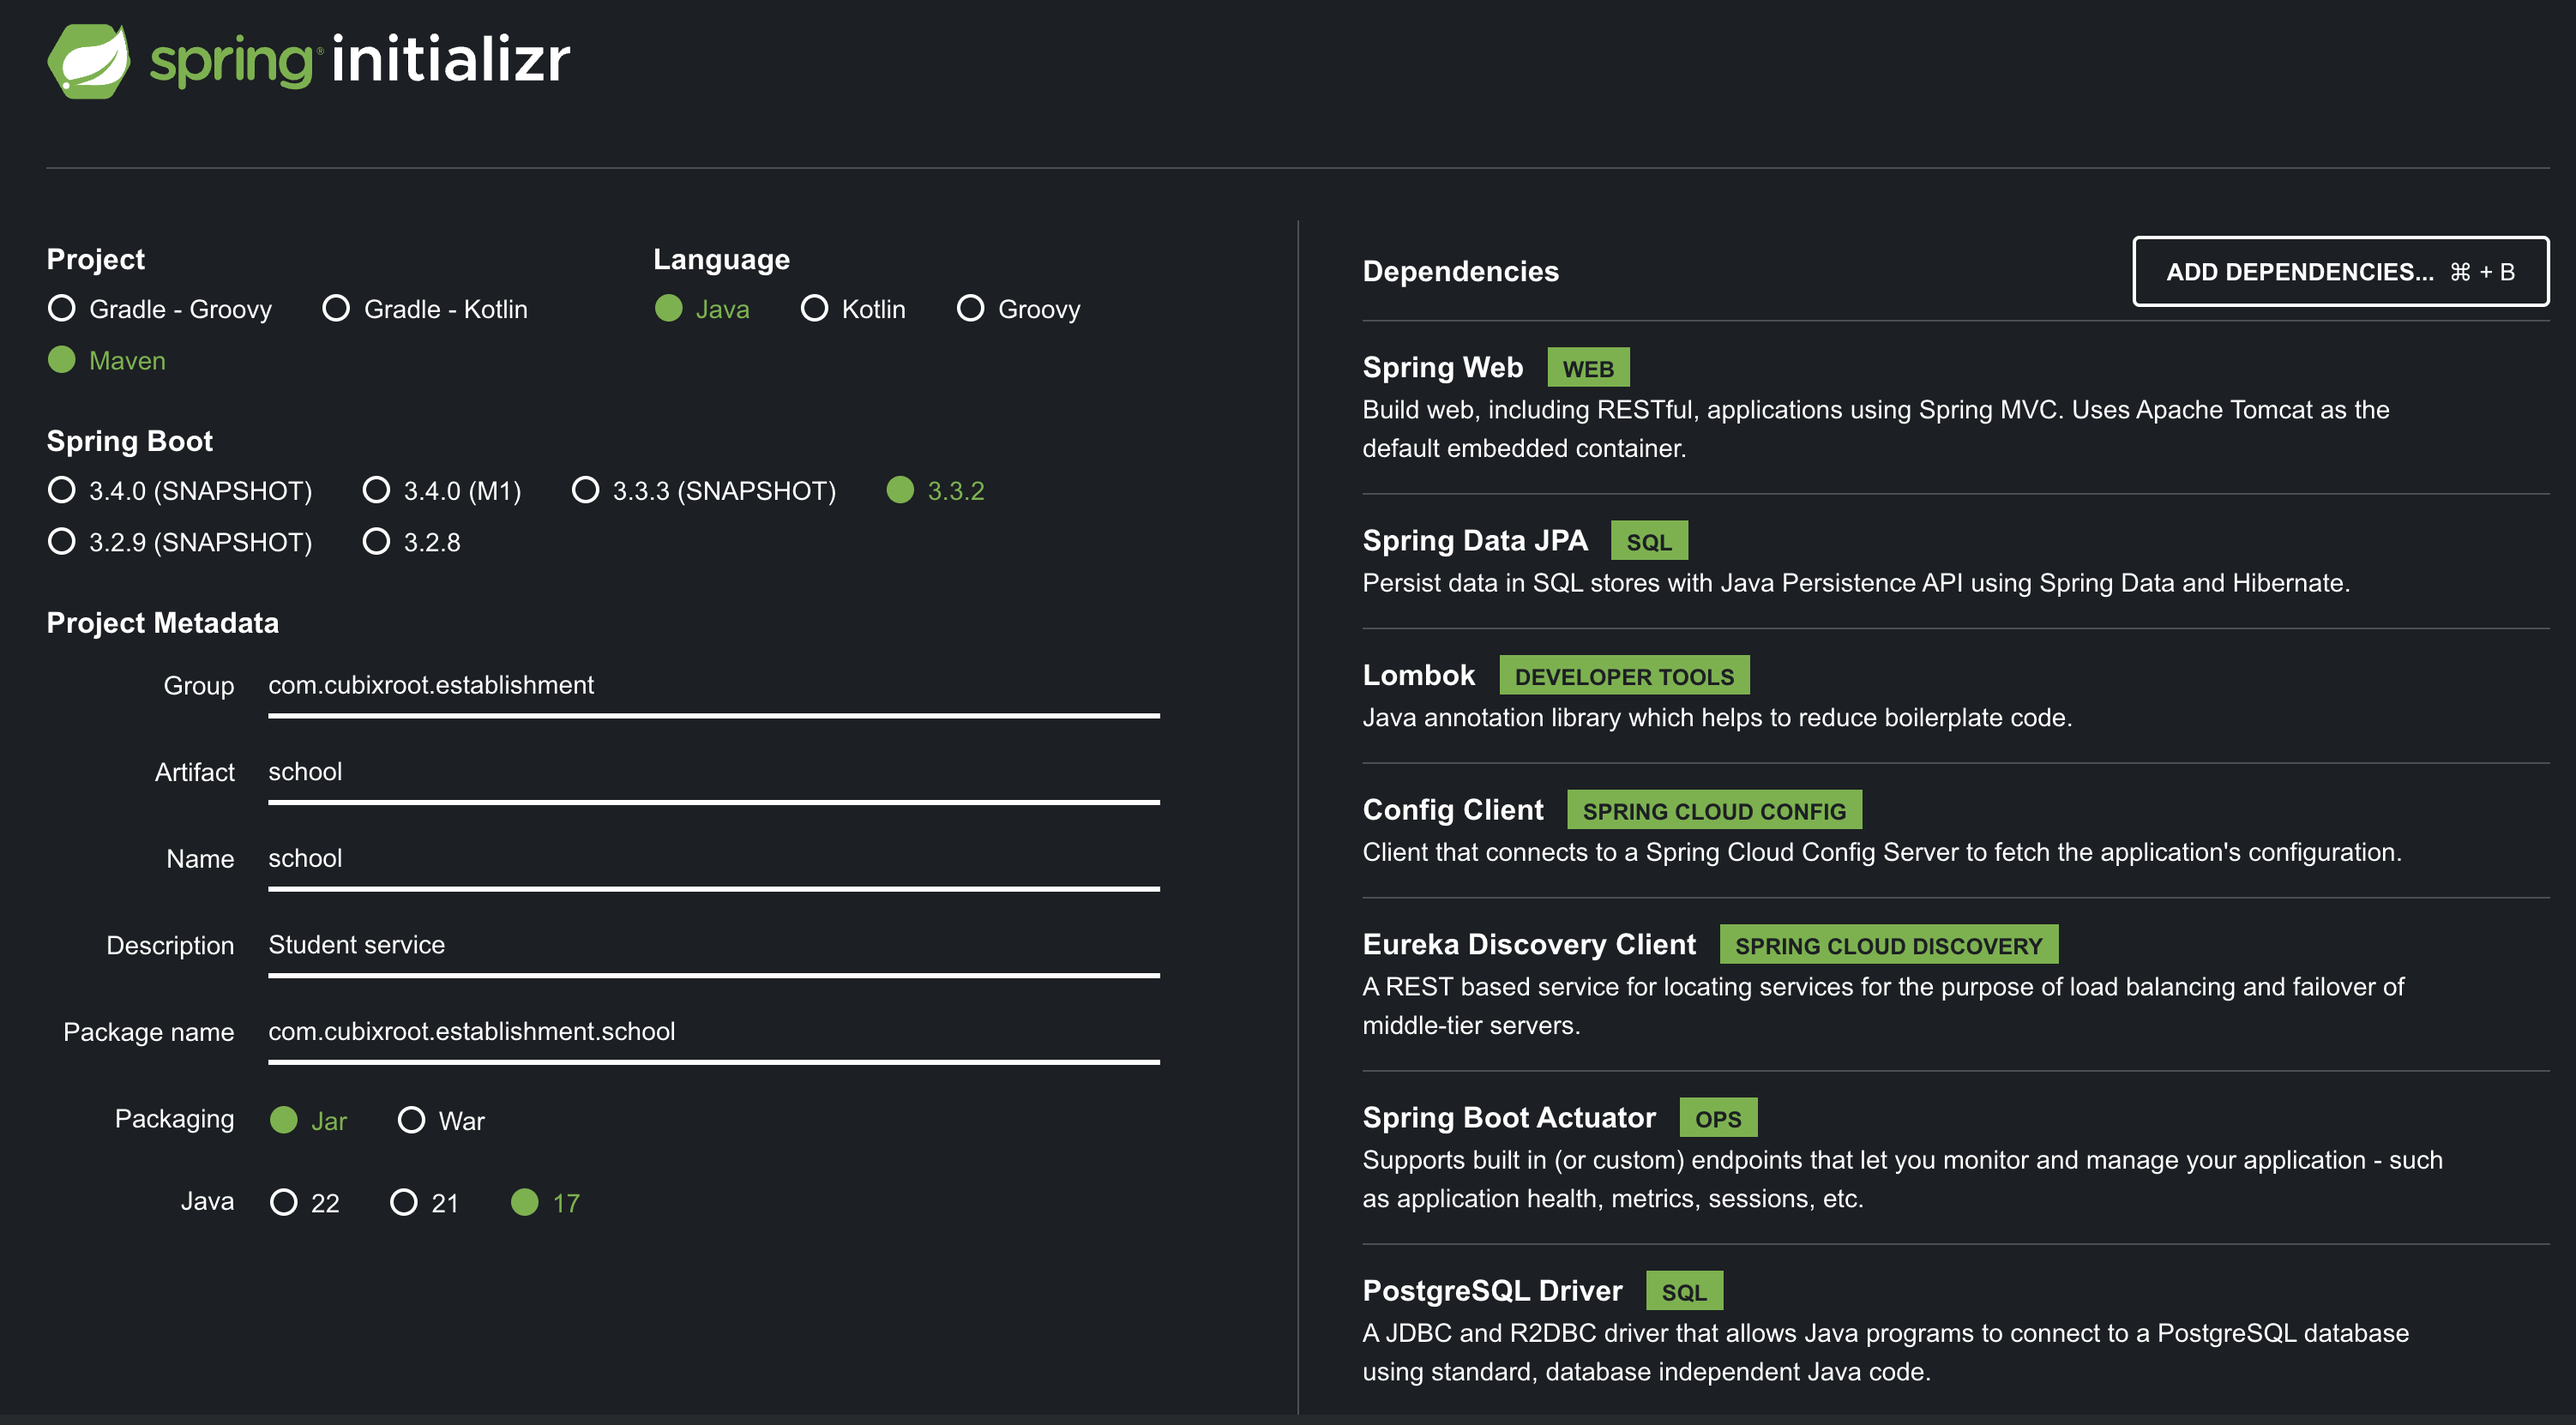
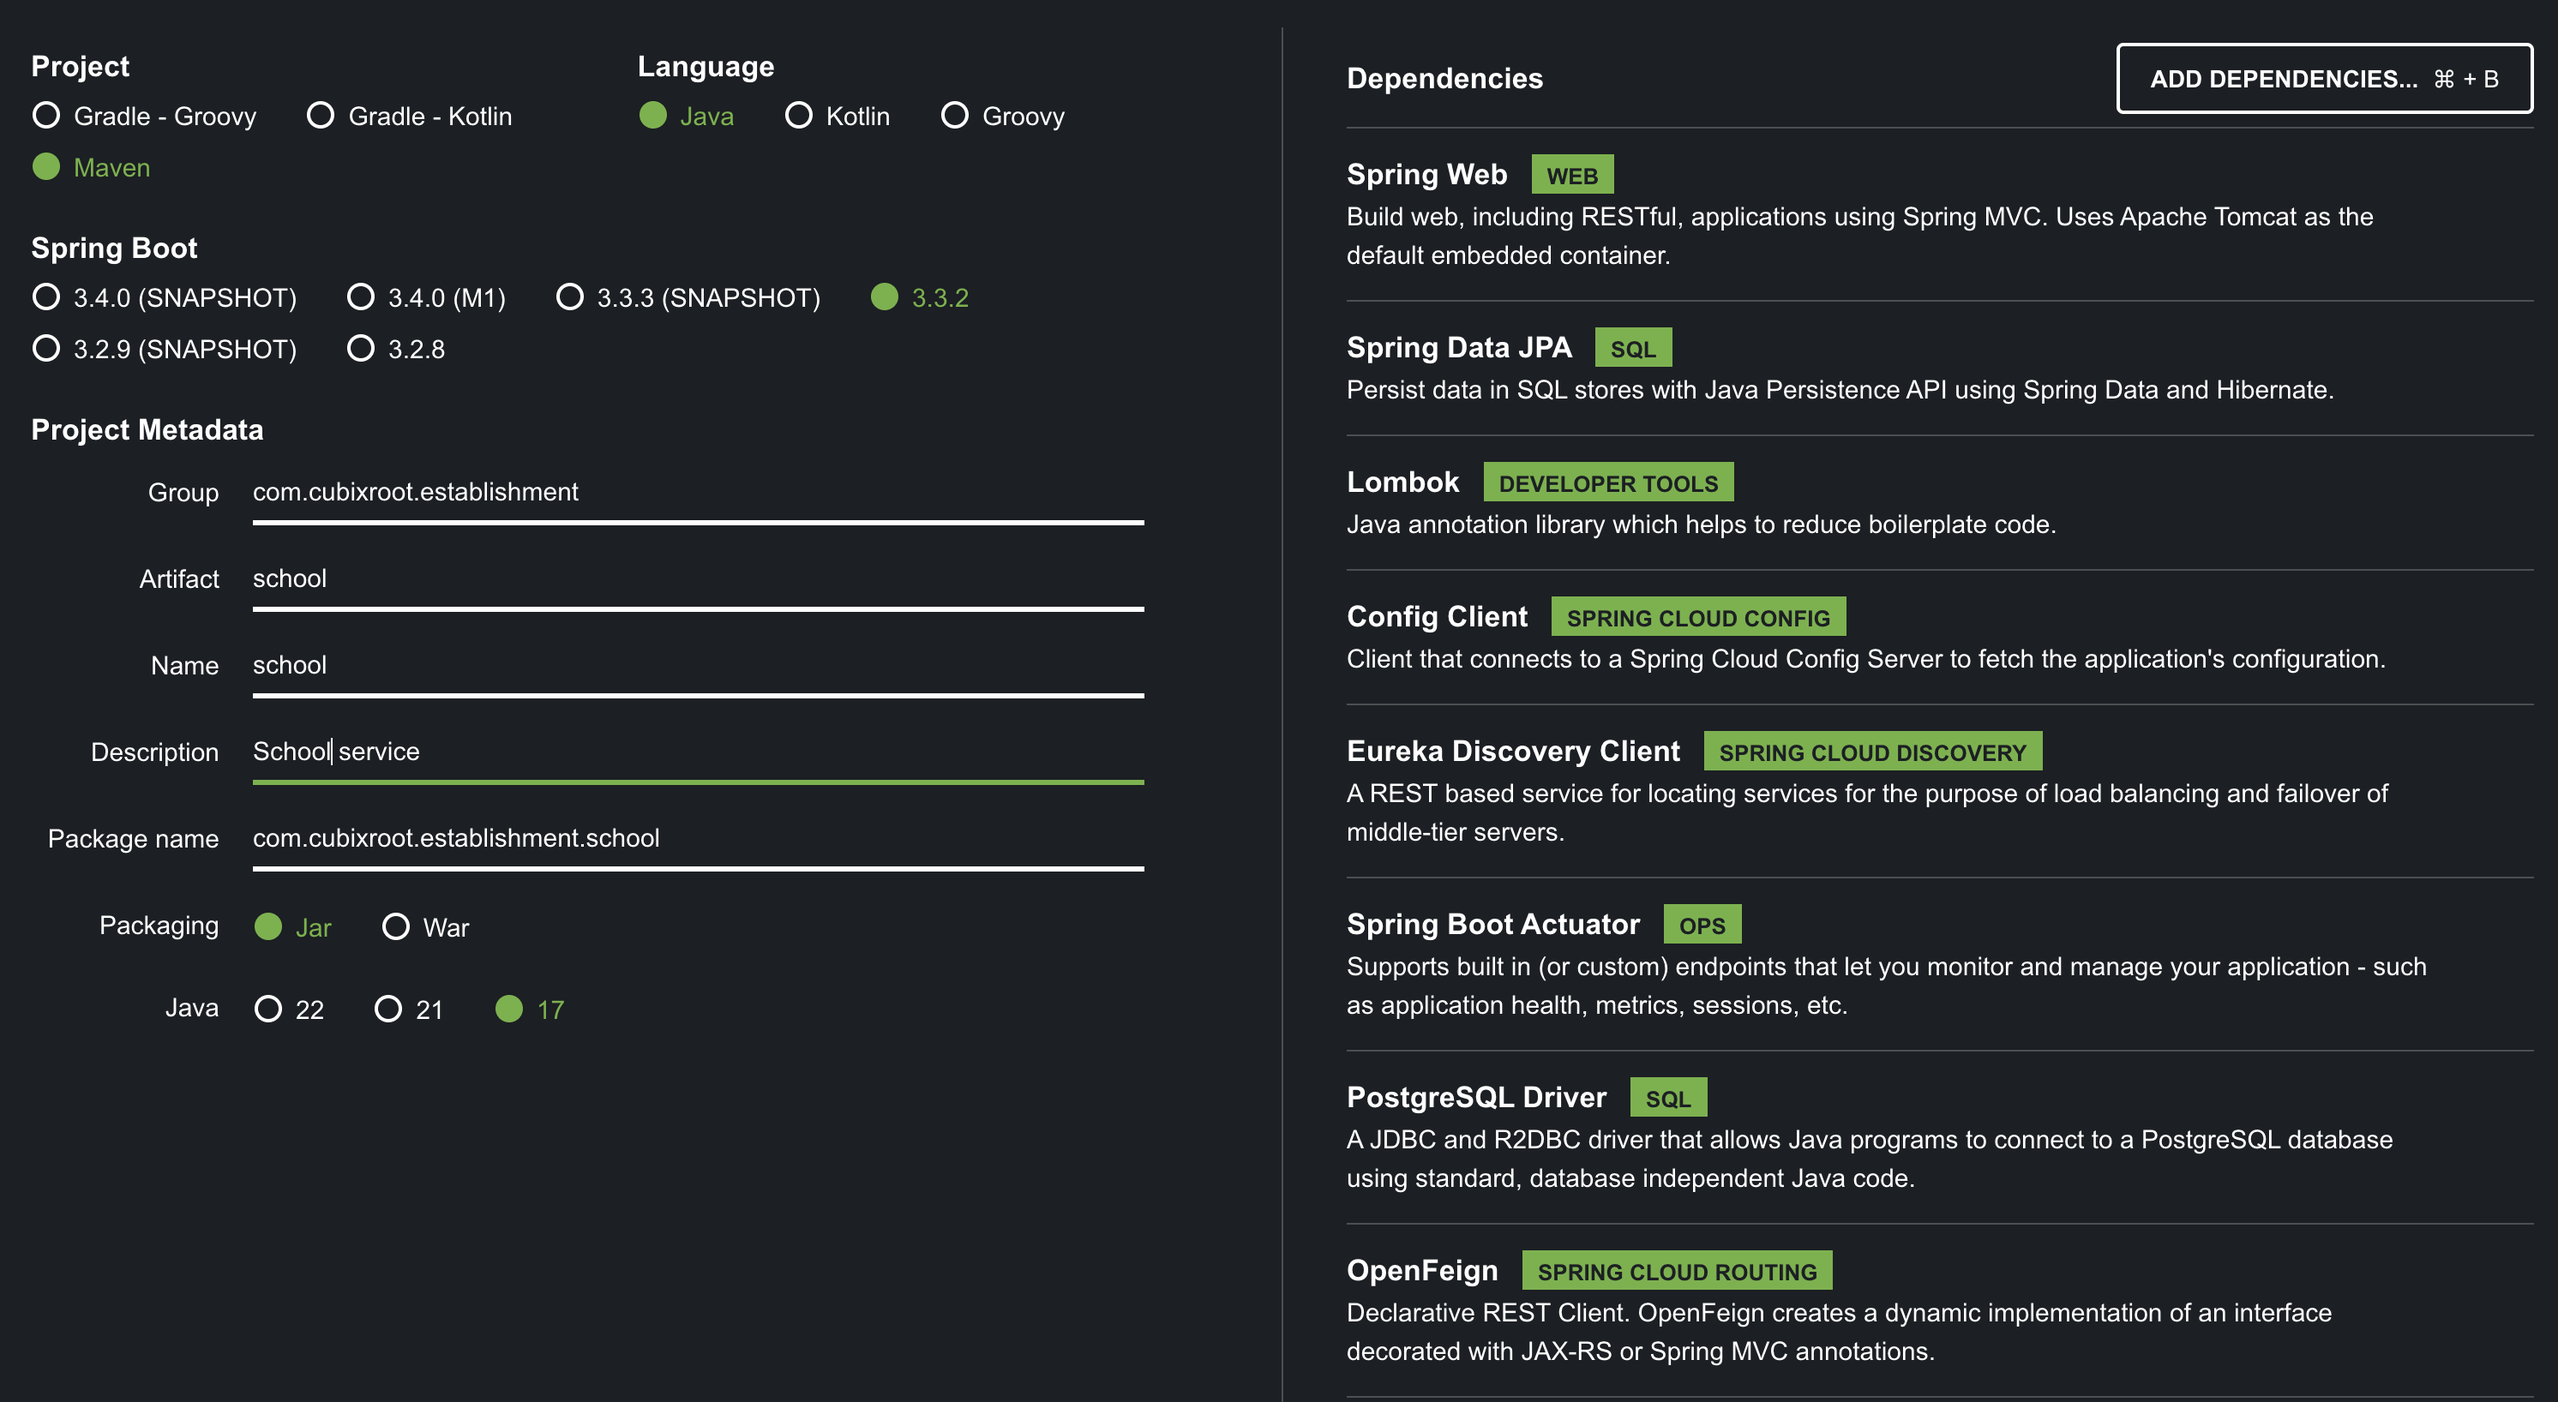
add openFeign

diff --git a/school/src/main/java/com/cubixroot/establishment/school/config/client/StudentClient.java b/school/src/main/java/com/cubixroot/establishment/school/config/client/StudentClient.java
@@ -1,0 +1,16 @@
+package com.cubixroot.establishment.school.config.client;
+
+import com.cubixroot.establishment.school.domain.dto.StudentDTO;
+import org.springframework.cloud.openfeign.FeignClient;
+import org.springframework.web.bind.annotation.GetMapping;
+import org.springframework.web.bind.annotation.PathVariable;
+
+import java.util.List;
+
+@FeignClient( name = "student-service", url = "${application.config.students-url}")
+public interface StudentClient {
+
+    @GetMapping("school/{school-id}")
+    public List<StudentDTO> findAllStudentsBySchool(@PathVariable("school-id") Integer schoolId);
+
+}

diff --git a/school/src/main/java/com/cubixroot/establishment/school/controller/SchoolController.java b/school/src/main/java/com/cubixroot/establishment/school/controller/SchoolController.java
@@ -29,8 +29,8 @@ public class SchoolController {
         return ResponseEntity.ok(schoolService.findAllSchools());
     }
 
-    @GetMapping("with-students/{schoolId}")
-    public FullSchoolDTO findSchoolWithStudents(@PathVariable Integer schoolId) {
+    @GetMapping("with-students/{school-id}")
+    public FullSchoolDTO findSchoolWithStudents(@PathVariable("school-id") Integer schoolId) {
         return schoolService.findSchoolWithStudents(schoolId);
     }
 

diff --git a/student/src/main/java/com/cubixroot/establishment/student/repository/StudentRepository.java b/student/src/main/java/com/cubixroot/establishment/student/repository/StudentRepository.java
@@ -4,6 +4,10 @@ import com.cubixroot.establishment.student.domain.Student;
 import org.springframework.data.jpa.repository.JpaRepository;
 import org.springframework.stereotype.Repository;
 
+import java.util.List;
+
 @Repository
 public interface StudentRepository extends JpaRepository<Student, Integer> {
+
+    List<Student> findAllBySchoolId(Integer schoolId);
 }

diff --git a/student/src/main/java/com/cubixroot/establishment/student/controller/StudentController.java b/student/src/main/java/com/cubixroot/establishment/student/controller/StudentController.java
@@ -28,4 +28,9 @@ public class StudentController {
         return ResponseEntity.ok(studentService.findAllStudents());
     }
 
+    @GetMapping("school/{school-id}")
+    public List<Student> findAllStudentsBySchool(@PathVariable("school-id") Integer schoolId) {
+        return studentService.findAllStudentsBySchool(schoolId);
+    }
+
 }

diff --git a/student/src/main/java/com/cubixroot/establishment/student/service/StudentService.java b/student/src/main/java/com/cubixroot/establishment/student/service/StudentService.java
@@ -21,4 +21,8 @@ public class StudentService {
         return studentRepository.findAll();
     }
 
+    public List<Student> findAllStudentsBySchool(Integer schoolId) {
+        return studentRepository.findAllBySchoolId(schoolId);
+    }
+
 }
